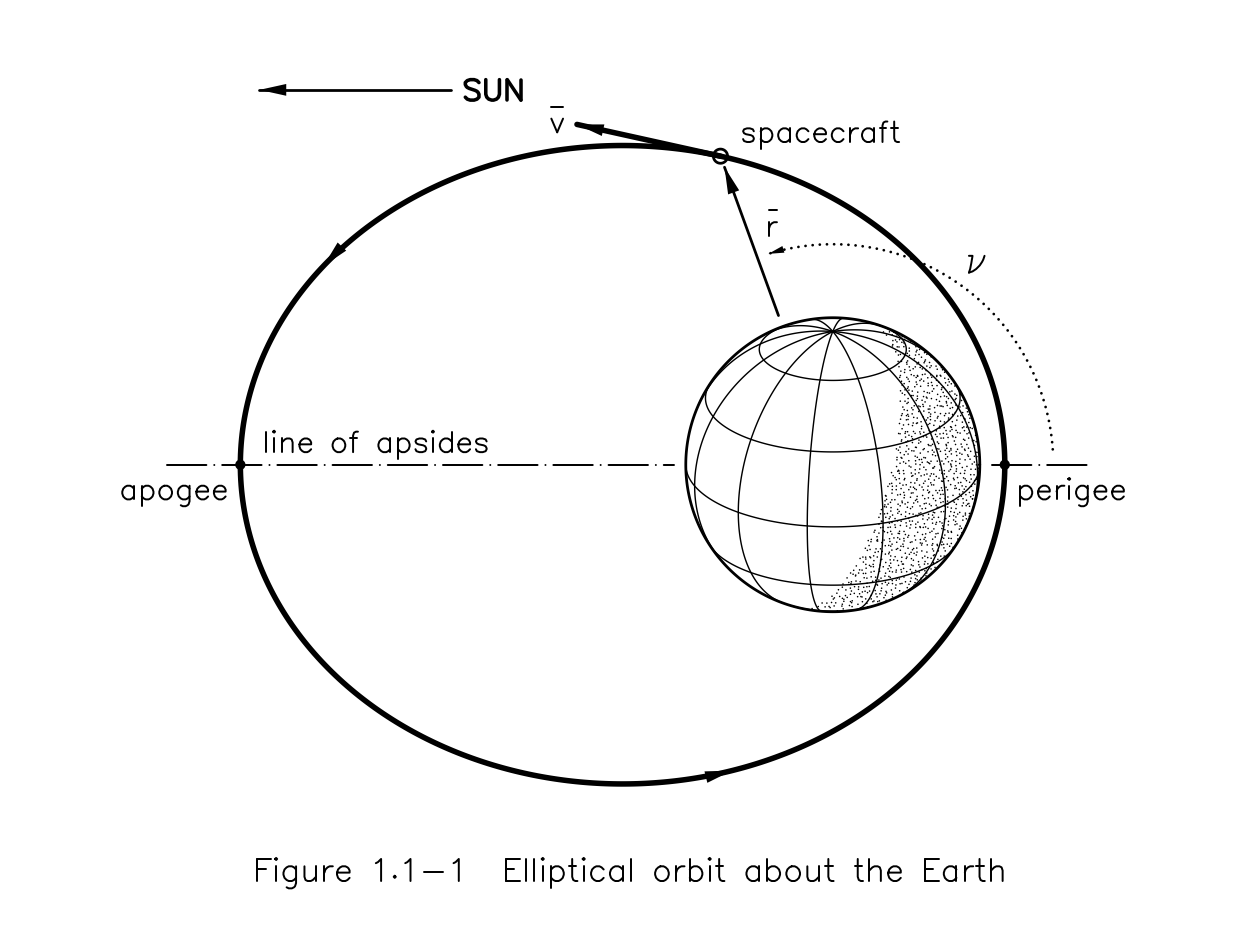
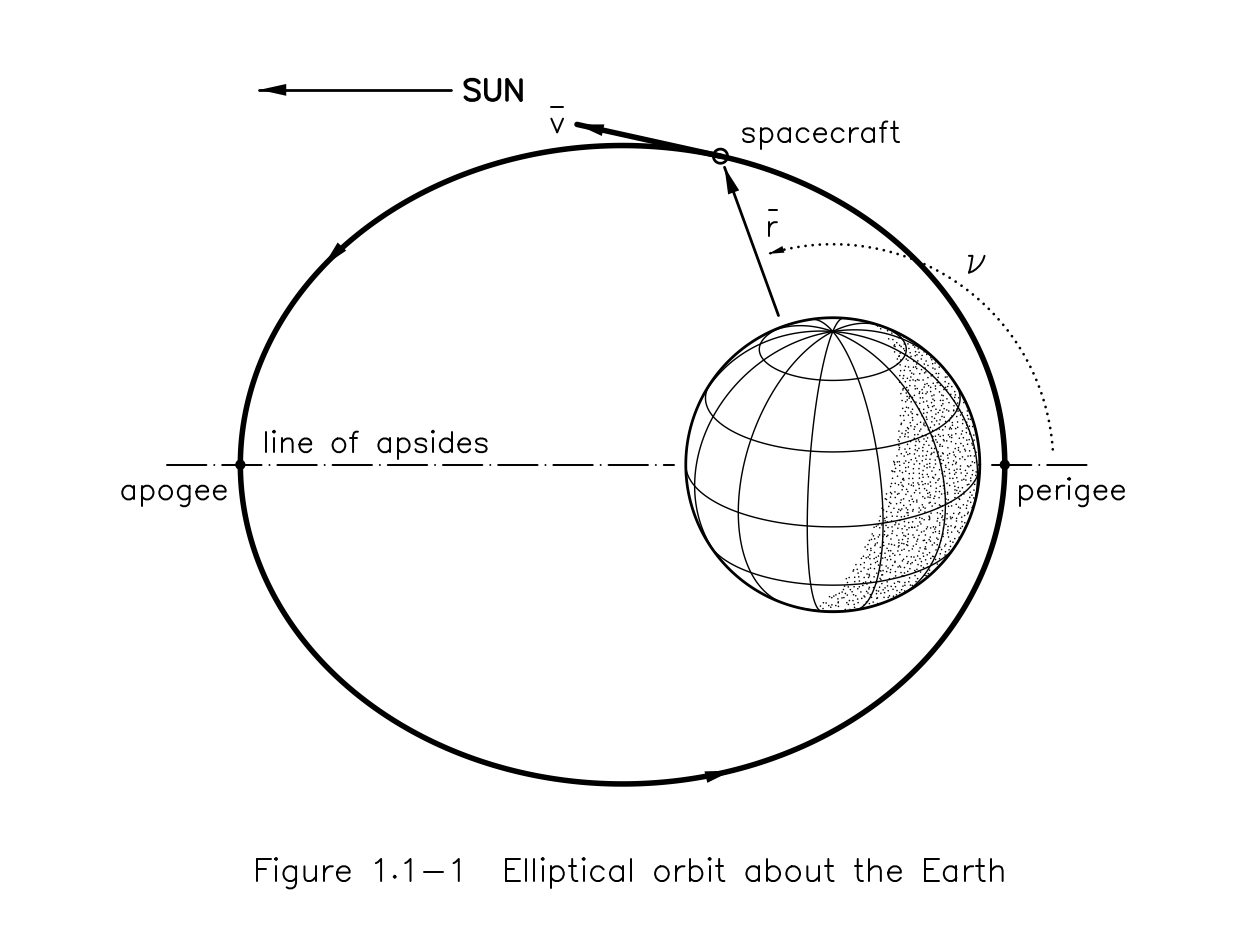
Seed stipple by fill order so float noise can't reshuffle dots
The stipple seed was a hash of the polygon's float bytes, so ulp-level
differences in trig between machines produced a different dot pattern
and failed the image test in CI. Also format the README code block.

Claude-Session: https://claude.ai/code/session_012uru9mY8AqB5KS29aWBEZc

Changed region(s): [[0.6505, 0.3686, 0.7744, 0.6451]]

diff --git a/src/inkorbit/layout.py b/src/inkorbit/layout.py
@@ -8,8 +8,7 @@ things, which is what keeps them small and interchangeable.
 
 from __future__ import annotations
 
-import zlib
-from dataclasses import dataclass, field
+from dataclasses import dataclass, field, replace
 
 import numpy as np
 
@@ -127,7 +126,14 @@ def layout(scene: Scene, page: str | Page | tuple[float, float] = "figure", styl
     box = (page.margin_mm, bottom, page.margin_mm + box_w, bottom + box_h)
 
     drawing = Drawing(page, style, box, limits, scale)
+    fills = 0
     for item in scene.items:
+        if isinstance(item, Fill):
+            # Seed stipple by position, not by coordinates: float noise across
+            # platforms must not reshuffle the dots.
+            if item.seed is None:
+                item = replace(item, seed=fills)
+            fills += 1
         _resolve(item, drawing)
     if scene.caption:
         _letter_into(
@@ -156,8 +162,7 @@ def _resolve(item, d: Drawing) -> None:
         if item.pattern == "solid":
             d.items.append(Solid(poly))
         elif item.pattern == "stipple":
-            seed = zlib.crc32(np.ascontiguousarray(item.polygon).tobytes())
-            dots = patterns.stipple(poly, item.spacing_mm or style.stipple_spacing_mm, seed=seed)
+            dots = patterns.stipple(poly, item.spacing_mm or style.stipple_spacing_mm, seed=item.seed or 0)
             if len(dots):
                 d.items.append(Dots(dots, style.stipple_dot_mm))
         elif item.pattern == "hatch":

diff --git a/src/inkorbit/scene.py b/src/inkorbit/scene.py
@@ -51,6 +51,7 @@ class Fill:
     pattern: Pattern = "stipple"
     spacing_mm: float | None = None
     angle_deg: float | None = None
+    seed: int | None = None  # stipple randomness; defaults to the fill's position in the scene
 
 
 @dataclass(frozen=True)
@@ -115,8 +116,8 @@ class Scene:
             self.add(Arrowhead(at, direction, arrow_size_mm))
         return line
 
-    def fill(self, polygon, pattern: Pattern = "stipple", *, spacing_mm=None, angle_deg=None) -> Fill:
-        return self.add(Fill(_polyline(polygon), pattern, spacing_mm, angle_deg))
+    def fill(self, polygon, pattern: Pattern = "stipple", *, spacing_mm=None, angle_deg=None, seed=None) -> Fill:
+        return self.add(Fill(_polyline(polygon), pattern, spacing_mm, angle_deg, seed))
 
     def arrowhead(self, at: ArrayLike2, direction: ArrayLike2, size_mm: float | None = None) -> Arrowhead:
         return self.add(Arrowhead(_xy(at), _xy(direction), size_mm))

diff --git a/tests/test_layout.py b/tests/test_layout.py
@@ -56,3 +56,13 @@ def test_unknown_role_and_page():
         ink.layout(scene)
     with pytest.raises(ValueError, match="unknown page"):
         ink.layout(_scene(), "napkin")
+
+
+def test_stipple_does_not_depend_on_float_noise():
+    square = np.array([[0.0, 0.0], [5.0, 0.0], [5.0, 5.0], [0.0, 5.0]])
+    dots = []
+    for poly in (square, square + 1e-13):
+        scene = _scene()
+        scene.fill(poly, "stipple")
+        dots.append(next(i for i in ink.layout(scene).items if isinstance(i, Dots)).points)
+    assert np.allclose(dots[0], dots[1], atol=1e-9)

diff --git a/README.md b/README.md
@@ -42,9 +42,9 @@ scene.line(geo.circle((0, 0), 1.0), st.OUTLINE)
 scene.line(geo.ellipse(2.0, 0.5), st.ORBIT, arrows=(0.3, 0.8))
 scene.text("perigee", (1.0, 0), offset_mm=(1.5, -3))
 
-fig = scene.render(page="figure")      # 160 x 120 mm
-fig.savefig("transfer.png")            # 300 dpi
-fig.data_ax.plot(...)                  # keep drawing with matplotlib, in data units
+fig = scene.render(page="figure")  # 160 x 120 mm
+fig.savefig("transfer.png")  # 300 dpi
+fig.data_ax.plot(...)  # keep drawing with matplotlib, in data units
 ```
 
 In Jupyter a `Scene` (or a rendered figure) displays itself as the last line of a cell.
